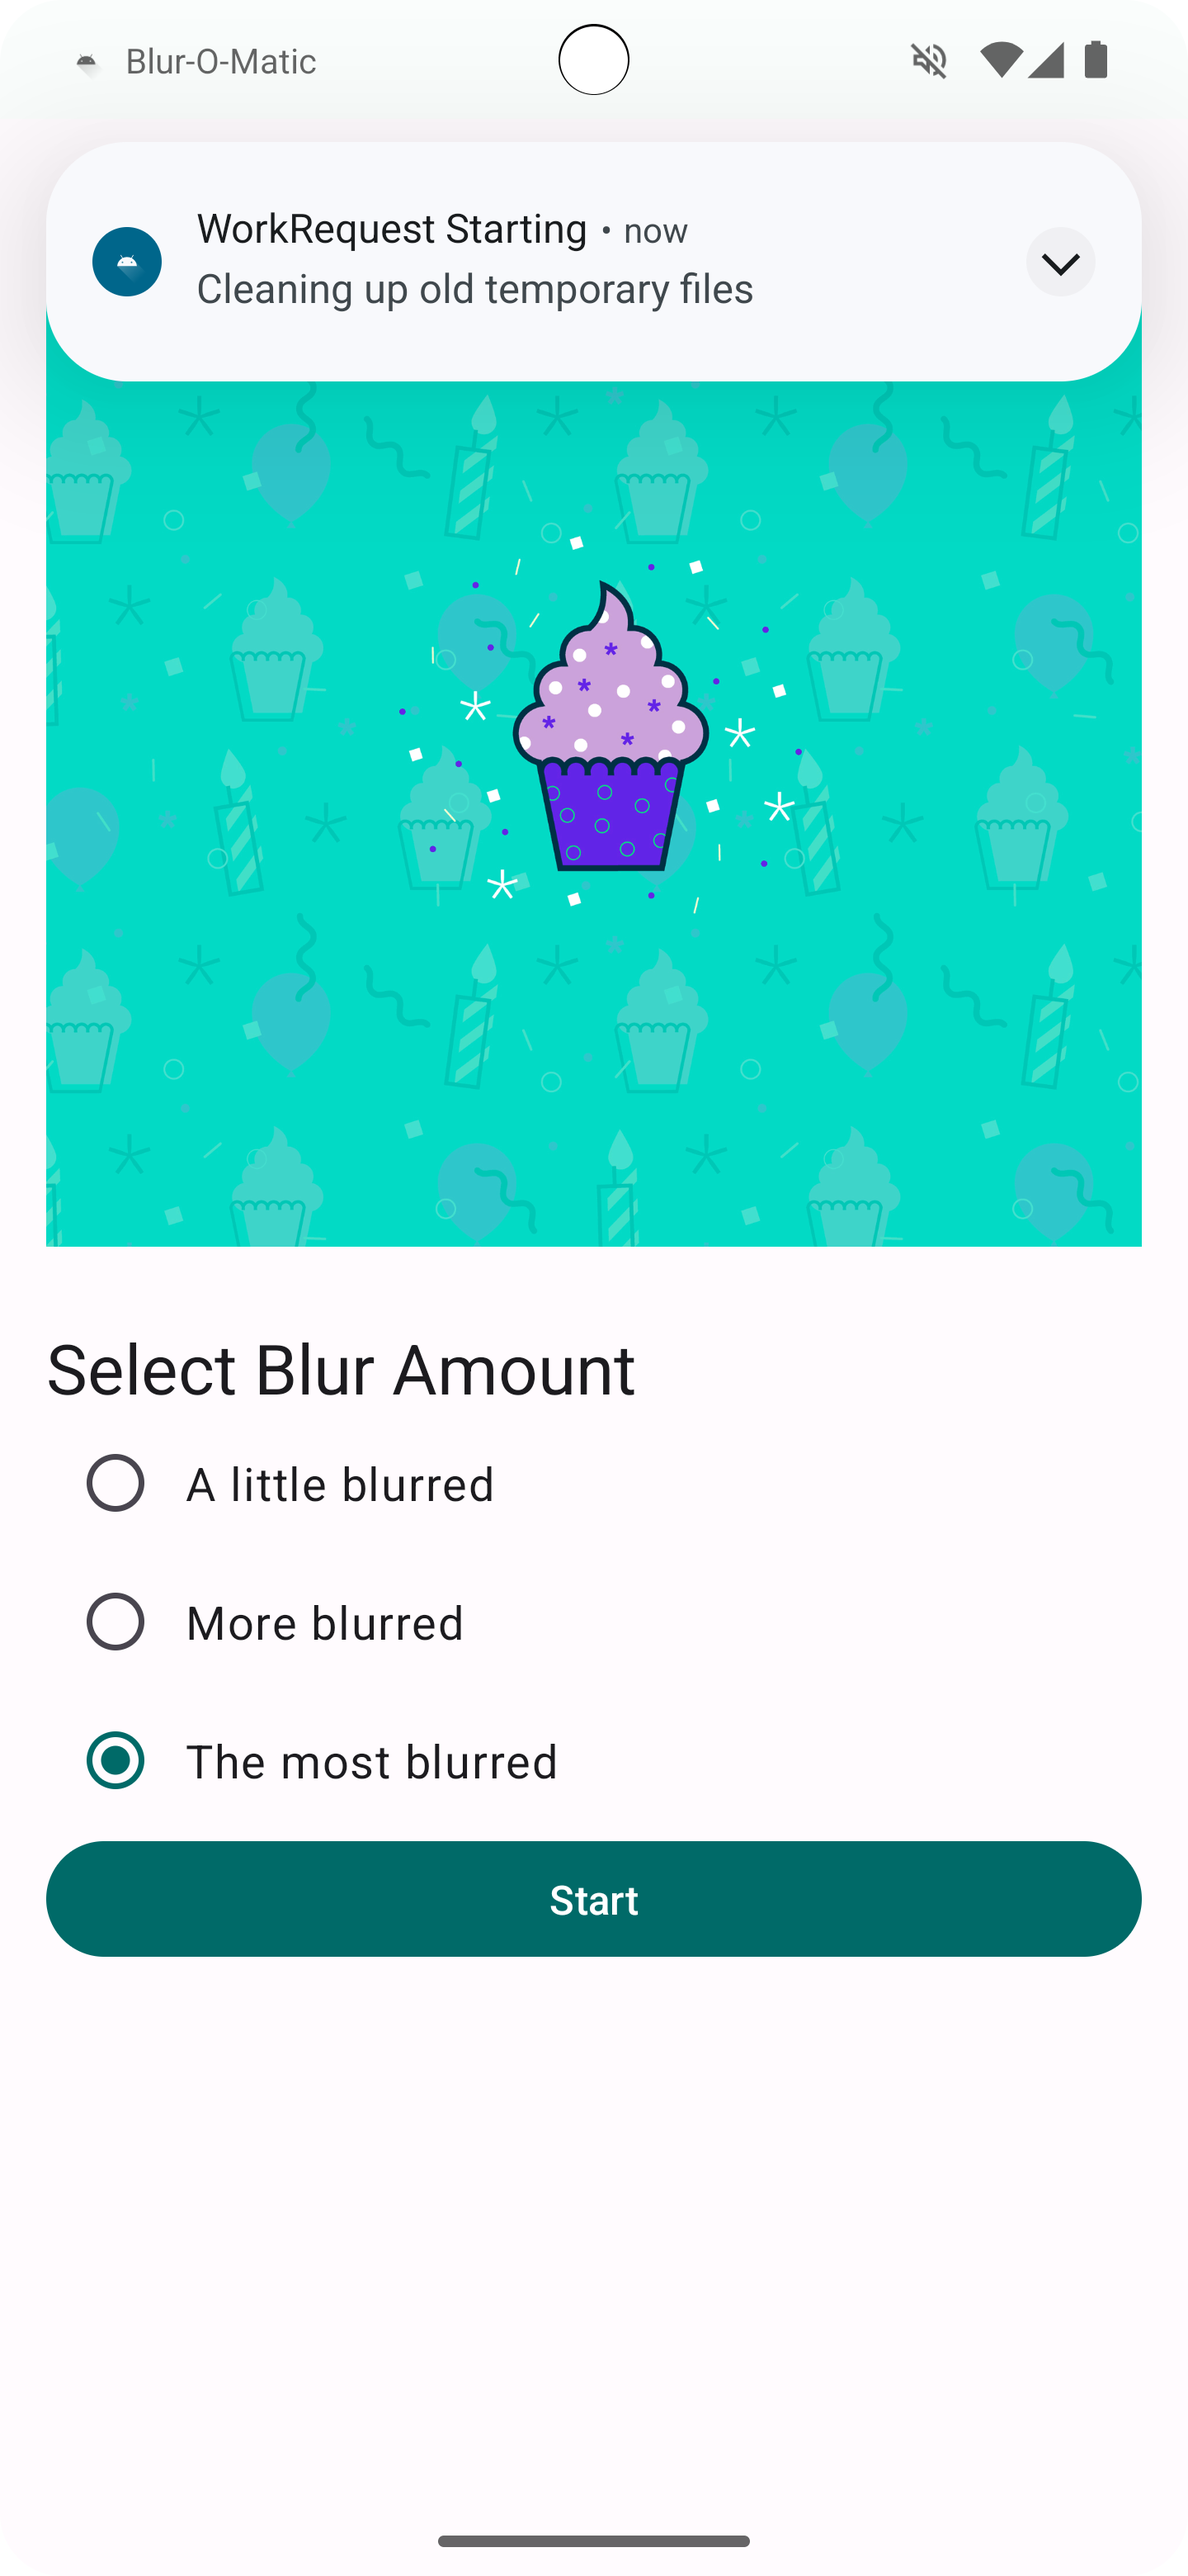
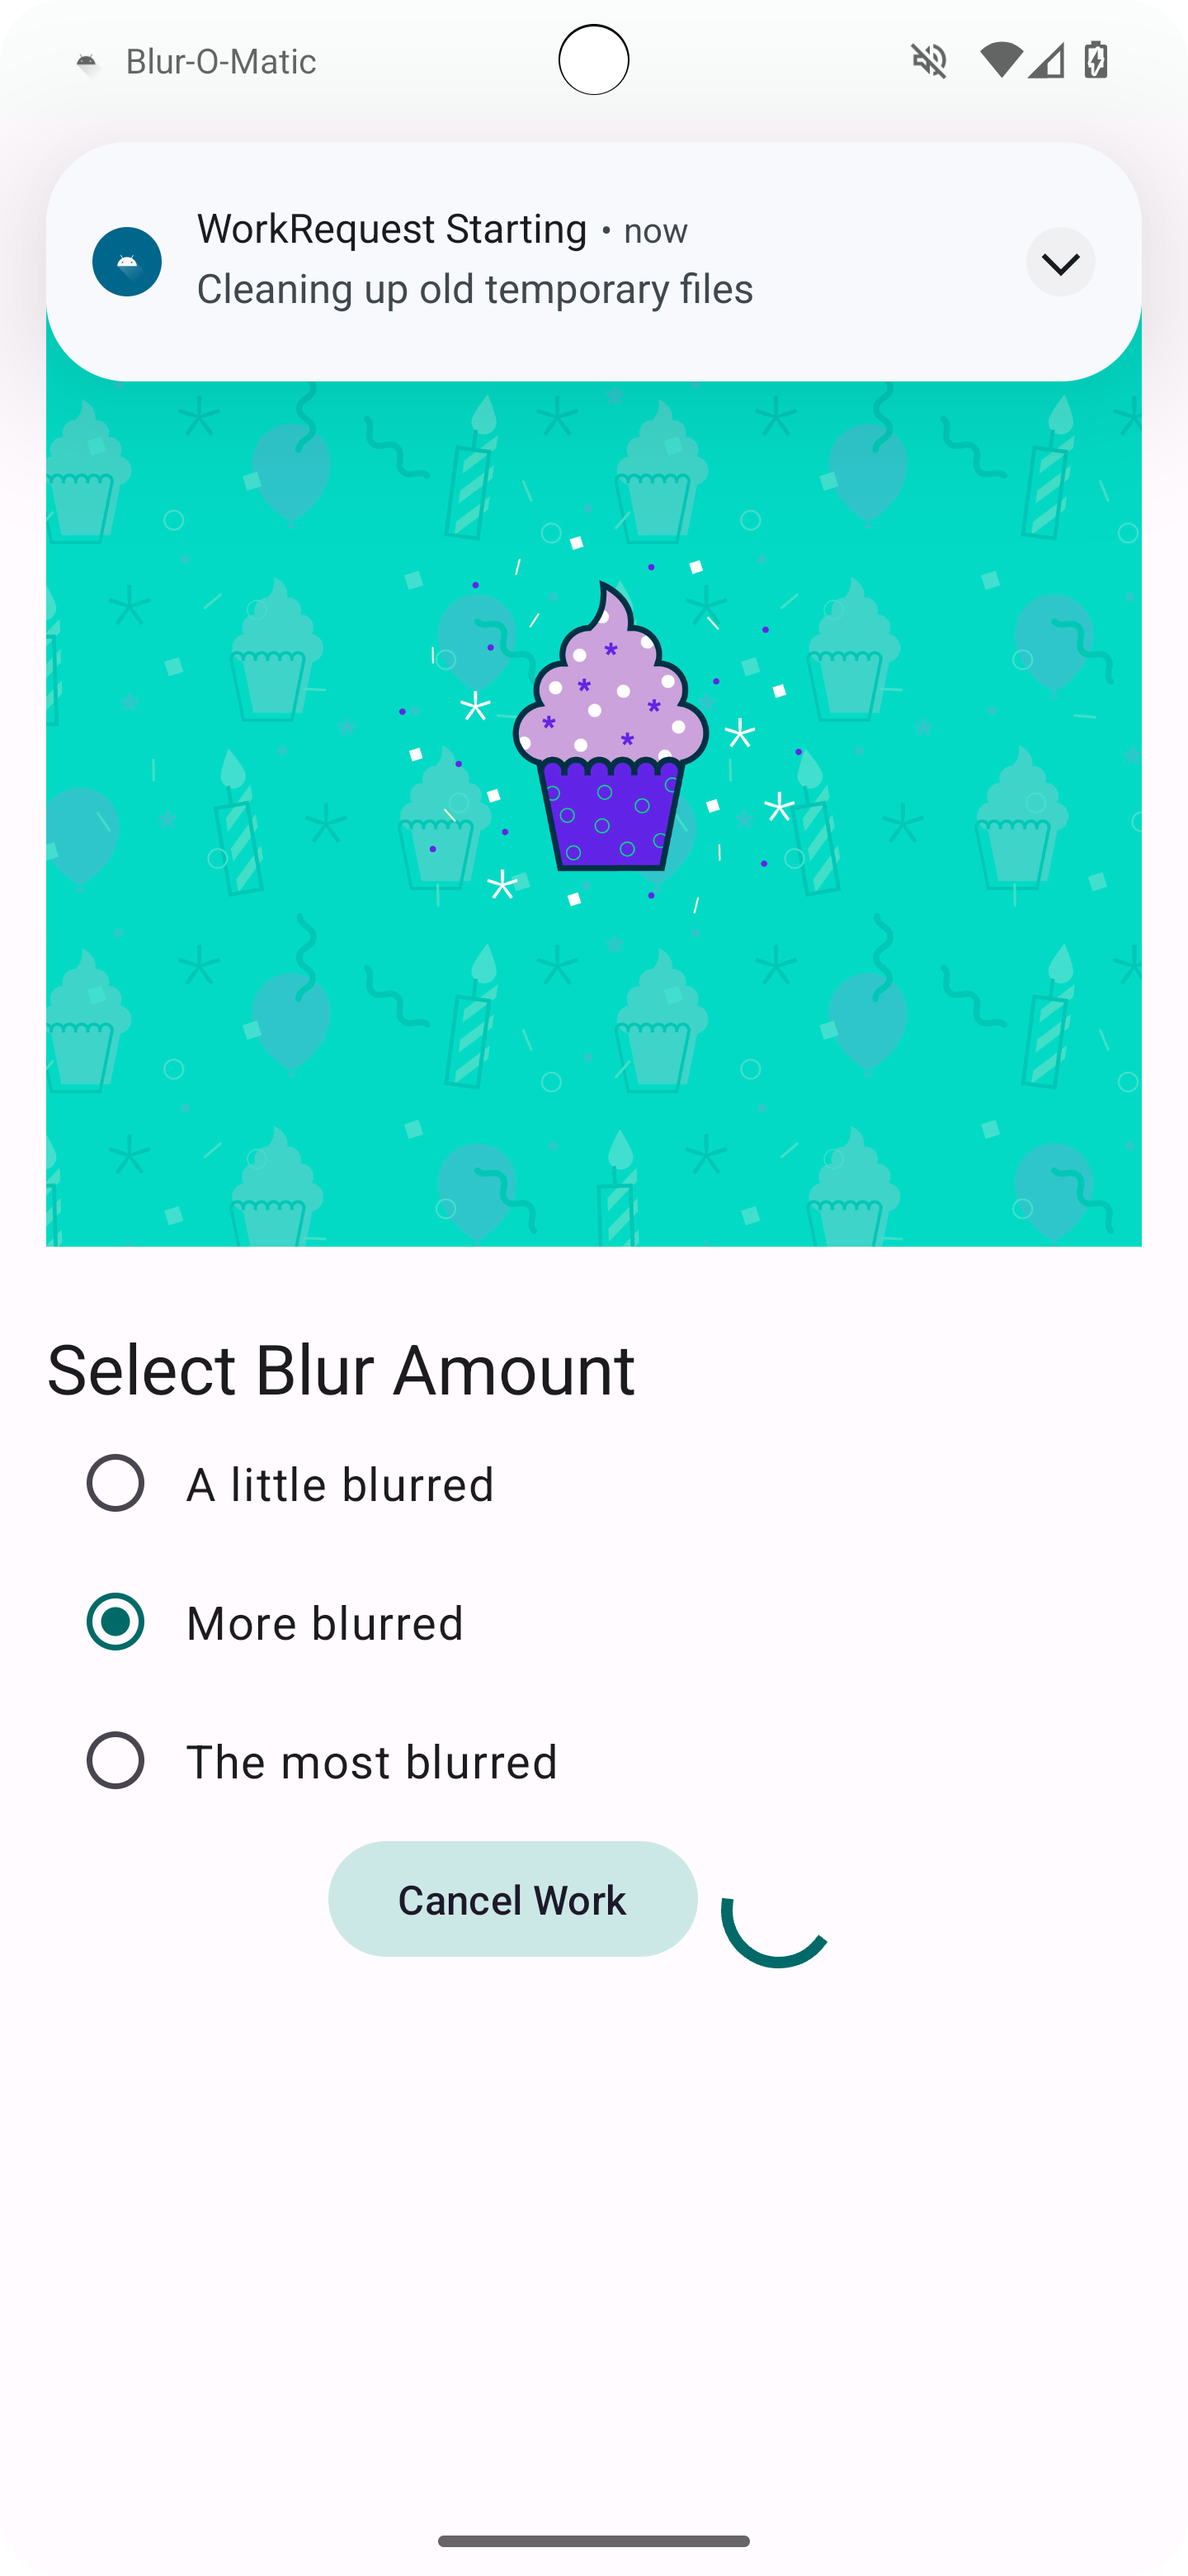
Add Unit 7 > Module 1 > Task 4

Changed region(s): [[0.0312, 0.6218, 0.9688, 0.7772], [0.9062, 0.0, 0.9375, 0.0311]]

diff --git a/unit-7/module-1/BlurOMatic/app/src/main/java/com/example/bluromatic/ui/BluromaticScreen.kt b/unit-7/module-1/BlurOMatic/app/src/main/java/com/example/bluromatic/ui/BluromaticScreen.kt
@@ -23,6 +23,7 @@ import androidx.compose.foundation.Image
 import androidx.compose.foundation.layout.Arrangement
 import androidx.compose.foundation.layout.Column
 import androidx.compose.foundation.layout.Row
+import androidx.compose.foundation.layout.Spacer
 import androidx.compose.foundation.layout.WindowInsets
 import androidx.compose.foundation.layout.asPaddingValues
 import androidx.compose.foundation.layout.calculateEndPadding
@@ -34,11 +35,14 @@ import androidx.compose.foundation.layout.padding
 import androidx.compose.foundation.layout.safeDrawing
 import androidx.compose.foundation.layout.size
 import androidx.compose.foundation.layout.statusBarsPadding
+import androidx.compose.foundation.layout.width
 import androidx.compose.foundation.rememberScrollState
 import androidx.compose.foundation.selection.selectable
 import androidx.compose.foundation.selection.selectableGroup
 import androidx.compose.foundation.verticalScroll
 import androidx.compose.material3.Button
+import androidx.compose.material3.CircularProgressIndicator
+import androidx.compose.material3.FilledTonalButton
 import androidx.compose.material3.MaterialTheme
 import androidx.compose.material3.RadioButton
 import androidx.compose.material3.RadioButtonDefaults
@@ -75,9 +79,11 @@ fun BluromaticScreen(blurViewModel: BlurViewModel = viewModel(factory = BlurView
             .fillMaxSize()
             .statusBarsPadding()
             .padding(
-                start = WindowInsets.safeDrawing.asPaddingValues()
+                start = WindowInsets.safeDrawing
+                    .asPaddingValues()
                     .calculateStartPadding(layoutDirection),
-                end = WindowInsets.safeDrawing.asPaddingValues()
+                end = WindowInsets.safeDrawing
+                    .asPaddingValues()
                     .calculateEndPadding(layoutDirection)
             )
     ) {
@@ -85,7 +91,7 @@ fun BluromaticScreen(blurViewModel: BlurViewModel = viewModel(factory = BlurView
             blurUiState = uiState,
             blurAmountOptions = blurViewModel.blurAmount,
             applyBlur = blurViewModel::applyBlur,
-            cancelWork = {},
+            cancelWork = blurViewModel::cancelWork,
             modifier = Modifier
                 .verticalScroll(rememberScrollState())
                 .padding(dimensionResource(R.dimen.padding_medium))
@@ -121,7 +127,9 @@ fun BluromaticScreenContent(
         BlurActions(
             blurUiState = blurUiState,
             onStartClick = { applyBlur(selectedValue) },
-            onSeeFileClick = {},
+            onSeeFileClick = { currentUri ->
+                showBlurredImage(context, currentUri)
+            },
             onCancelClick = { cancelWork() },
             modifier = Modifier.fillMaxWidth()
         )
@@ -140,11 +148,26 @@ private fun BlurActions(
         modifier = modifier,
         horizontalArrangement = Arrangement.Center
     ) {
-        Button(
-            onClick = onStartClick,
-            modifier = Modifier.fillMaxWidth()
-        ) {
-            Text(stringResource(R.string.start))
+        when (blurUiState) {
+            is BlurUiState.Default -> {
+                Button(
+                    onClick = onStartClick,
+                    modifier = Modifier.fillMaxWidth()
+                ) {
+                    Text(stringResource(R.string.start))
+                }
+            }
+            is BlurUiState.Loading -> {
+                FilledTonalButton(onCancelClick) { Text(stringResource(R.string.cancel_work)) }
+                CircularProgressIndicator(modifier = Modifier.padding(dimensionResource(R.dimen.padding_small)))
+            }
+            is BlurUiState.Complete -> {
+                Button(onStartClick) { Text(stringResource(R.string.start)) }
+                Spacer(modifier = Modifier.width(dimensionResource(R.dimen.padding_small)))
+                FilledTonalButton({ onSeeFileClick(blurUiState.outputUri) }) {
+                    Text(stringResource(R.string.see_file))
+                }
+            }
         }
     }
 }

diff --git a/unit-7/module-1/BlurOMatic/app/src/main/java/com/example/bluromatic/data/WorkManagerBluromaticRepository.kt b/unit-7/module-1/BlurOMatic/app/src/main/java/com/example/bluromatic/data/WorkManagerBluromaticRepository.kt
@@ -18,26 +18,35 @@ package com.example.bluromatic.data
 
 import android.content.Context
 import android.net.Uri
+import androidx.lifecycle.asFlow
+import androidx.work.Constraints
 import androidx.work.Data
+import androidx.work.ExistingWorkPolicy
 import androidx.work.OneTimeWorkRequest
 import androidx.work.OneTimeWorkRequestBuilder
 import androidx.work.WorkInfo
 import androidx.work.WorkManager
+import com.example.bluromatic.IMAGE_MANIPULATION_WORK_NAME
 import com.example.bluromatic.KEY_BLUR_LEVEL
 import com.example.bluromatic.KEY_IMAGE_URI
+import com.example.bluromatic.TAG_OUTPUT
 import com.example.bluromatic.getImageUri
 import com.example.bluromatic.workers.BlurWorker
 import com.example.bluromatic.workers.CleanupWorker
 import com.example.bluromatic.workers.SaveImageToFileWorker
 import kotlinx.coroutines.flow.Flow
 import kotlinx.coroutines.flow.MutableStateFlow
+import kotlinx.coroutines.flow.mapNotNull
 
 class WorkManagerBluromaticRepository(context: Context) : BluromaticRepository {
 
     private var imageUri: Uri = context.getImageUri()
     private val workManager = WorkManager.getInstance(context)
 
-    override val outputWorkInfo: Flow<WorkInfo?> = MutableStateFlow(null)
+    override val outputWorkInfo: Flow<WorkInfo> =
+        workManager.getWorkInfosByTagLiveData(TAG_OUTPUT).asFlow().mapNotNull {
+            if (it.isNotEmpty()) it.first() else null
+        }
 
     /**
      * Create the WorkRequests to apply the blur and save the resulting image
@@ -45,18 +54,27 @@ class WorkManagerBluromaticRepository(context: Context) : BluromaticRepository {
      */
     override fun applyBlur(blurLevel: Int) {
         // Add WorkRequest to Cleanup temporary images
-        var continuation = workManager.beginWith(OneTimeWorkRequest.from(CleanupWorker::class.java))
+        var continuation = workManager.beginUniqueWork(
+            IMAGE_MANIPULATION_WORK_NAME,
+            ExistingWorkPolicy.REPLACE,
+            OneTimeWorkRequest.Companion.from(CleanupWorker::class.java)
+        )
+
+        val constraints = Constraints.Builder()
+            .setRequiresBatteryNotLow(true)
+            .build()
 
         // Create WorkRequest to blur the image
         val blurBuilder = OneTimeWorkRequestBuilder<BlurWorker>()
-
-        blurBuilder.setInputData(createInputDataForWorkRequest(blurLevel, imageUri))
+            .setInputData(createInputDataForWorkRequest(blurLevel, imageUri))
+            .setConstraints(constraints)
 
         // Add the blur work request to the chain
         continuation = continuation.then(blurBuilder.build())
 
         // Add WorkRequest to save image to the filesystem
         val save = OneTimeWorkRequestBuilder<SaveImageToFileWorker>()
+            .addTag(TAG_OUTPUT)
             .build()
         continuation = continuation.then(save)
 
@@ -67,7 +85,9 @@ class WorkManagerBluromaticRepository(context: Context) : BluromaticRepository {
     /**
      * Cancel any ongoing WorkRequests
      * */
-    override fun cancelWork() {}
+    override fun cancelWork() {
+        workManager.cancelUniqueWork(IMAGE_MANIPULATION_WORK_NAME)
+    }
 
     /**
      * Creates the input data bundle which includes the blur level to

diff --git a/unit-7/module-1/BlurOMatic/app/src/androidTest/java/WorkerInstrumentationTest.kt b/unit-7/module-1/BlurOMatic/app/src/androidTest/java/WorkerInstrumentationTest.kt
@@ -1,0 +1,70 @@
+import android.content.Context
+import androidx.test.core.app.ApplicationProvider
+import androidx.work.Data
+import androidx.work.ListenableWorker
+import androidx.work.testing.TestListenableWorkerBuilder
+import androidx.work.workDataOf
+import com.example.bluromatic.KEY_IMAGE_URI
+import com.example.bluromatic.workers.BlurWorker
+import com.example.bluromatic.workers.CleanupWorker
+import com.example.bluromatic.workers.SaveImageToFileWorker
+import junit.framework.TestCase.assertNotNull
+import junit.framework.TestCase.assertTrue
+import kotlinx.coroutines.runBlocking
+import org.junit.Before
+import org.junit.Test
+
+class WorkerInstrumentationTest {
+    private val mockUriInput = KEY_IMAGE_URI to "android.resource://com.example.bluromatic/drawable/android_cupcake"
+    private lateinit var context: Context
+
+    @Before
+    fun setup() {
+        context = ApplicationProvider.getApplicationContext()
+    }
+
+    @Test
+    fun cleanupWorker_doWork_resultSuccess() {
+        val worker = TestListenableWorkerBuilder<CleanupWorker>(context).build()
+        runBlocking {
+            val result = worker.doWork()
+            assertTrue(result is ListenableWorker.Result.Success)
+        }
+    }
+
+    @Test
+    fun blurWorker_doWork_resultSuccessReturnsUri() {
+        val worker = TestListenableWorkerBuilder<BlurWorker>(context)
+            .setInputData(workDataOf(mockUriInput))
+            .build()
+
+        runBlocking {
+            val result = worker.doWork()
+            val resultUri = result.outputData.getString(mockUriInput.first)
+            assertTrue(result is ListenableWorker.Result.Success)
+            assertTrue(result.outputData.keyValueMap.containsKey(mockUriInput.first))
+            assertTrue(
+                resultUri?.startsWith("file:///data/user/0/com.example.bluromatic/files/blur_filter_outputs/blur-filter-output-")
+                    ?: false
+            )
+        }
+    }
+
+    @Test
+    fun saveImageToFileWorker_doWork_resultSuccessReturnsUrl() {
+        val worker = TestListenableWorkerBuilder<SaveImageToFileWorker>(context)
+            .setInputData(workDataOf(mockUriInput))
+            .build()
+
+        runBlocking {
+            val result = worker.doWork()
+            val resultUri = result.outputData.getString(mockUriInput.first)
+            assertTrue(result is ListenableWorker.Result.Success)
+            assertTrue(result.outputData.keyValueMap.containsKey(mockUriInput.first))
+            assertTrue(
+                resultUri?.startsWith("content://media/external/images/media/")
+                    ?: false
+            )
+        }
+    }
+}

diff --git a/unit-7/module-1/BlurOMatic/app/src/main/java/com/example/bluromatic/ui/BlurViewModel.kt b/unit-7/module-1/BlurOMatic/app/src/main/java/com/example/bluromatic/ui/BlurViewModel.kt
@@ -19,13 +19,19 @@ package com.example.bluromatic.ui
 import androidx.lifecycle.ViewModel
 import androidx.lifecycle.ViewModelProvider
 import androidx.lifecycle.ViewModelProvider.AndroidViewModelFactory.Companion.APPLICATION_KEY
+import androidx.lifecycle.viewModelScope
 import androidx.lifecycle.viewmodel.initializer
 import androidx.lifecycle.viewmodel.viewModelFactory
+import androidx.work.WorkInfo
 import com.example.bluromatic.BluromaticApplication
+import com.example.bluromatic.KEY_IMAGE_URI
 import com.example.bluromatic.data.BlurAmountData
 import com.example.bluromatic.data.BluromaticRepository
 import kotlinx.coroutines.flow.MutableStateFlow
+import kotlinx.coroutines.flow.SharingStarted
 import kotlinx.coroutines.flow.StateFlow
+import kotlinx.coroutines.flow.map
+import kotlinx.coroutines.flow.stateIn
 
 /**
  * [BlurViewModel] starts and stops the WorkManger and applies blur to the image. Also updates the
@@ -35,7 +41,23 @@ class BlurViewModel(private val bluromaticRepository: BluromaticRepository) : Vi
 
     internal val blurAmount = BlurAmountData.blurAmount
 
-    val blurUiState: StateFlow<BlurUiState> = MutableStateFlow(BlurUiState.Default)
+    val blurUiState: StateFlow<BlurUiState> = bluromaticRepository.outputWorkInfo
+        .map { info ->
+            val outputImageUri = info.outputData.getString(KEY_IMAGE_URI)
+            when {
+                info.state.isFinished && !outputImageUri.isNullOrEmpty() -> {
+                    BlurUiState.Complete(outputUri = outputImageUri)
+                }
+                info.state == WorkInfo.State.CANCELLED -> {
+                    BlurUiState.Default
+                }
+                else -> BlurUiState.Loading
+            }
+        }.stateIn(
+            scope = viewModelScope,
+            started = SharingStarted.WhileSubscribed(5_000),
+            initialValue = BlurUiState.Default
+        )
 
     /**
      * Call the method from repository to create the WorkRequest to apply the blur
@@ -44,6 +66,13 @@ class BlurViewModel(private val bluromaticRepository: BluromaticRepository) : Vi
      */
     fun applyBlur(blurLevel: Int) {
         bluromaticRepository.applyBlur(blurLevel)
+    }
+
+    /**
+     * Call method from repository to cancel any ongoing WorkRequest
+     */
+    fun cancelWork() {
+        bluromaticRepository.cancelWork()
     }
 
     /**

diff --git a/unit-7/module-1/BlurOMatic/app/src/main/java/com/example/bluromatic/data/BluromaticRepository.kt b/unit-7/module-1/BlurOMatic/app/src/main/java/com/example/bluromatic/data/BluromaticRepository.kt
@@ -20,7 +20,7 @@ import androidx.work.WorkInfo
 import kotlinx.coroutines.flow.Flow
 
 interface BluromaticRepository {
-    val outputWorkInfo: Flow<WorkInfo?>
+    val outputWorkInfo: Flow<WorkInfo>
     fun applyBlur(blurLevel: Int)
     fun cancelWork()
 }

diff --git a/unit-7/module-1/BlurOMatic/README.md b/unit-7/module-1/BlurOMatic/README.md
@@ -1,10 +1,7 @@
 Blur-O-Matic App
 ===================================
 
-Introduction
-------------
-
-At I/O 2018, Google announced [Android Jetpack](https://developer.android.com/jetpack/), a collection of libraries, tools, and architectural guidance to accelerate and simplify the development of great Android apps. One of those libraries is the [WorkManager library](https://developer.android.com/topic/libraries/architecture/workmanager/). The WorkManager library provides a unified API for deferrable one-off or recurring background tasks that need guaranteed execution. You can learn more by reading the [WorkManager Guide](https://developer.android.com/topic/libraries/architecture/workmanager/), the [WorkManager Reference](https://developer.android.com/reference/androidx/work/package-summary) or doing the [WorkManager Codelab](https://developer.android.com/codelabs/basic-android-kotlin-compose-workmanager).
+At I/O 2018, Google announced [Android Jetpack](https://developer.android.com/jetpack/), a collection of libraries, tools, and architectural guidance to accelerate and simplify the development of great Android apps. One of those libraries is the [WorkManager library](https://developer.android.com/topic/libraries/architecture/workmanager/). The WorkManager library provides a unified API for deferrable one-off or recurring background tasks that need guaranteed execution.
 
 It's developed using Jetpack Compose components like ```Column```, ```Button```, ```Text```, ```Image```, and ```Modifier```.
 
@@ -13,6 +10,8 @@ It's developed using Jetpack Compose components like ```Column```, ```Button```,
   <img src="./asset-docs/demo2.png" width="350px" alt="Screenshot displaying the cleanup worker running.">
   <img src="./asset-docs/demo3.png" width="350px" alt="Screenshot displaying the blur worker running.">
   <img src="./asset-docs/demo4.png" width="350px" alt="Screenshot displaying the save worker running.">
+  <img src="./asset-docs/demo5.png" width="350px" alt="Screenshot displaying the save worker running.">
+  <img src="./asset-docs/demo6.png" width="350px" alt="Screenshot displaying the save worker running.">
 </p>
 
 Getting Started
